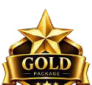
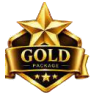
Fix Gold Package badge alignment and render package inclusions in modal popup

diff --git a/src/components/ExhibitionPackagesSection.jsx b/src/components/ExhibitionPackagesSection.jsx
@@ -1,4 +1,4 @@
-import React, { useState } from 'react';
+import React, { useState, useEffect } from 'react';
 import { motion, AnimatePresence } from 'framer-motion';
 import Tilt from 'react-parallax-tilt';
 import { 
@@ -239,11 +239,28 @@ export default function ExhibitionPackagesSection({ onBookPackage }) {
 
   const selectedPkg = activeTier ? PREMIUM_PACKAGES.find(p => p.id === activeTier) : null;
 
+  useEffect(() => {
+    if (activeTier) {
+      document.body.style.overflow = 'hidden';
+      const handleKeyDown = (e) => {
+        if (e.key === 'Escape') setActiveTier(null);
+      };
+      window.addEventListener('keydown', handleKeyDown);
+      return () => {
+        document.body.style.overflow = 'unset';
+        window.removeEventListener('keydown', handleKeyDown);
+      };
+    } else {
+      document.body.style.overflow = 'unset';
+    }
+  }, [activeTier]);
+
   const handleSelectTier = (tierId) => {
-    setActiveTier(prev => prev === tierId ? null : tierId);
+    setActiveTier(tierId);
   };
 
   const handleBook = (pkgName) => {
+    setActiveTier(null); // Close the details modal when user clicks to reserve/book
     if (onBookPackage) {
       onBookPackage(pkgName);
     }
@@ -381,17 +398,8 @@ export default function ExhibitionPackagesSection({ onBookPackage }) {
                     handleSelectTier(pkg.id);
                   }}
                 >
-                  {isActive ? (
-                    <>
-                      <span>Hide Details</span>
-                      <X size={16} />
-                    </>
-                  ) : (
-                    <>
-                      <span>View Full Details & Inclusions</span>
-                      <ArrowRight size={16} />
-                    </>
-                  )}
+                  <span>View Full Details & Inclusions</span>
+                  <ArrowRight size={16} />
                 </button>
               </motion.div>
             );
@@ -399,30 +407,40 @@ export default function ExhibitionPackagesSection({ onBookPackage }) {
         </div>
 
         {/* ==================================================================
-            C. SELECTED PACKAGE DETAILS (HIDDEN BY DEFAULT; OPENS ON CLICK)
+            C. SELECTED PACKAGE DETAILS MODAL POPUP (OPENS ON SCREEN AS MODAL)
             ================================================================== */}
         <AnimatePresence>
           {selectedPkg && (
             <motion.div 
-              key={selectedPkg.id}
-              id={`panel-${selectedPkg.id}`}
-              role="tabpanel"
-              className="pkg-details-showcase"
-              initial={{ opacity: 0, y: 20, scale: 0.98 }}
-              animate={{ opacity: 1, y: 0, scale: 1 }}
-              exit={{ opacity: 0, y: -20, scale: 0.98 }}
-              transition={{ duration: 0.35 }}
+              className="pkg-modal-overlay"
+              initial={{ opacity: 0 }}
+              animate={{ opacity: 1 }}
+              exit={{ opacity: 0 }}
+              onClick={() => setActiveTier(null)}
             >
-              {/* Close Button */}
-              <button 
-                type="button"
-                className="showcase-close-btn"
-                onClick={() => setActiveTier(null)}
-                title="Close details panel"
-                aria-label="Close details panel"
+              <motion.div 
+                key={selectedPkg.id}
+                id={`panel-${selectedPkg.id}`}
+                role="dialog"
+                aria-modal="true"
+                aria-label={`${selectedPkg.name} Details`}
+                className="pkg-modal-content"
+                initial={{ y: 50, scale: 0.9, opacity: 0 }}
+                animate={{ y: 0, scale: 1, opacity: 1 }}
+                exit={{ y: 20, scale: 0.9, opacity: 0 }}
+                transition={{ type: 'spring', damping: 25, stiffness: 300 }}
+                onClick={(e) => e.stopPropagation()}
               >
-                <X size={18} />
-              </button>
+                {/* Close Button */}
+                <button 
+                  type="button"
+                  className="close-modal pkg-modal-close"
+                  onClick={() => setActiveTier(null)}
+                  title="Close details popup"
+                  aria-label="Close details popup"
+                >
+                  <X size={20} />
+                </button>
 
               {/* Showcase Top Bar */}
               <div className="showcase-topbar">
@@ -536,8 +554,9 @@ export default function ExhibitionPackagesSection({ onBookPackage }) {
                 </div>
               </div>
             </motion.div>
-          )}
-        </AnimatePresence>
+          </motion.div>
+        )}
+      </AnimatePresence>
 
         {/* ==================================================================
             D. TRANSITION TO STANDARD EXHIBITION STALLS

diff --git a/src/components/ExhibitionPackagesSection.css b/src/components/ExhibitionPackagesSection.css
@@ -399,41 +399,80 @@
 }
 
 /* ==========================================================================
-   SELECTED PACKAGE DEEP DIVE PANEL (LIGHT & LUXURY AESTHETIC)
-   Hidden by default; Appears smoothly only upon user click
+   SELECTED PACKAGE DEEP DIVE MODAL POPUP (SCREEN CENTERED GLASSMORPHISM)
+   Appears smoothly only upon user clicking "View Full Details & Inclusions"
    ========================================================================== */
-.pkg-details-showcase {
+.pkg-modal-overlay {
+  position: fixed;
+  top: 0;
+  left: 0;
+  right: 0;
+  bottom: 0;
+  background: rgba(15, 23, 42, 0.65);
+  backdrop-filter: blur(10px);
+  -webkit-backdrop-filter: blur(10px);
+  z-index: 99999;
+  display: flex;
+  align-items: center;
+  justify-content: center;
+  padding: 24px;
+  overflow-y: auto;
+}
+
+.pkg-modal-content {
   position: relative;
-  z-index: 1;
-  border-radius: 26px;
-  padding: 40px;
+  border-radius: 28px;
+  padding: 36px 40px;
   background: #ffffff;
-  border: 2px solid rgba(0, 0, 0, 0.1);
-  box-shadow: 0 25px 60px rgba(0, 0, 0, 0.1);
-  margin-bottom: 70px;
+  border: 1px solid rgba(255, 255, 255, 0.9);
+  box-shadow: 0 30px 80px rgba(0, 0, 0, 0.35);
+  max-width: 980px;
+  width: 100%;
+  max-height: 88vh;
+  overflow-y: auto;
+  overscroll-behavior: contain;
   transition: all 0.4s ease;
 }
 
+/* Custom smooth scrollbar for popup */
+.pkg-modal-content::-webkit-scrollbar {
+  width: 8px;
+}
+.pkg-modal-content::-webkit-scrollbar-track {
+  background: #f1f5f9;
+  border-radius: 10px;
+}
+.pkg-modal-content::-webkit-scrollbar-thumb {
+  background: #cbd5e1;
+  border-radius: 10px;
+}
+.pkg-modal-content::-webkit-scrollbar-thumb:hover {
+  background: #94a3b8;
+}
+
 @media (max-width: 768px) {
-  .pkg-details-showcase {
-    padding: 26px 18px;
+  .pkg-modal-overlay {
+    padding: 12px;
+  }
+  .pkg-modal-content {
+    padding: 28px 18px;
+    border-radius: 20px;
+    max-height: 92vh;
   }
 }
 
-.theme-platinum .pkg-details-showcase {
+.theme-platinum .pkg-modal-content {
   border-color: #94a3b8;
-  box-shadow: 0 20px 50px rgba(100, 116, 139, 0.18);
 }
-.theme-diamond .pkg-details-showcase {
+.theme-diamond .pkg-modal-content {
   border-color: #38bdf8;
-  box-shadow: 0 20px 50px rgba(2, 132, 199, 0.18);
 }
-.theme-gold .pkg-details-showcase {
+.theme-gold .pkg-modal-content {
   border-color: #fbbf24;
-  box-shadow: 0 20px 50px rgba(217, 119, 6, 0.18);
 }
 
 /* Close / Minimize Button */
+.pkg-modal-close,
 .showcase-close-btn {
   position: absolute;
   top: 20px;
@@ -441,18 +480,21 @@
   background: #f1f5f9;
   border: 1px solid #e2e8f0;
   border-radius: 50%;
-  width: 36px;
-  height: 36px;
+  width: 40px;
+  height: 40px;
   display: flex;
   align-items: center;
   justify-content: center;
   cursor: pointer;
   color: var(--text-dark, #1A1A1A);
-  transition: all 0.2s ease;
+  transition: all 0.25s cubic-bezier(0.16, 1, 0.3, 1);
+  z-index: 20;
 }
+.pkg-modal-close:hover,
 .showcase-close-btn:hover {
-  background: #e2e8f0;
-  transform: scale(1.08);
+  background: #fee2e2;
+  color: #dc2626;
+  transform: rotate(90deg) scale(1.08);
 }
 
 /* Showcase Top Bar */
